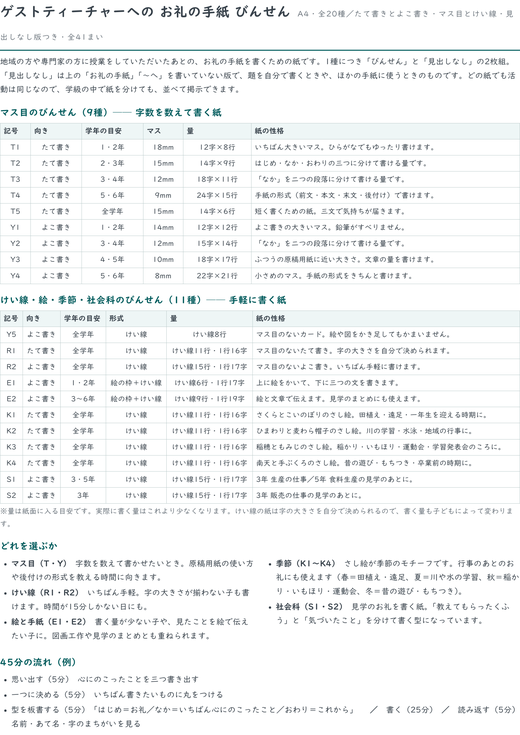
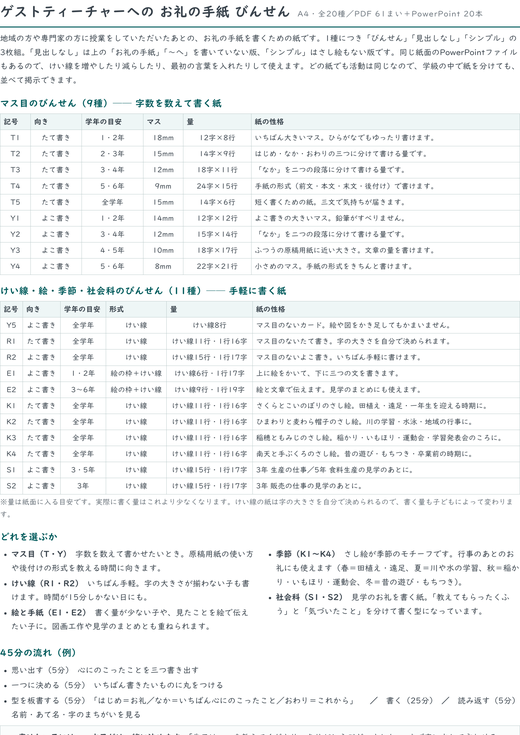
お礼の手紙びんせん：シンプル版とPowerPoint版を追加
- シンプル（見出しもさし絵もない版）を20種すべてに追加。PDFは全61まい
- 先生が編集できるPowerPoint版（A4たて・1種1本・けい線とマスは行ごとにグループ、見出しはテキストボックス）を20本
- 棚ページ：カードに「シンプル」「PowerPoint」ボタン、上部にPowerPoint一括ZIP
- 東京書籍の国語の単元（3年「案内の手紙を書こう」4年「お願いやお礼の手紙を書こう」）への対応を棚と使い方に追記

diff --git a/gakkyu/tegami/index.html b/gakkyu/tegami/index.html
@@ -9,7 +9,7 @@
 <meta property="og:image" content="https://a-tozak.github.io/School_Stock/gakkyu/tegami/card.png">
 <meta name="twitter:card" content="summary_large_image">
 <meta name="twitter:image" content="https://a-tozak.github.io/School_Stock/gakkyu/tegami/card.png">
-<meta name="description" content="ゲストティーチャーへのお礼の手紙を書くためのA4びんせん20種。マス目18mm〜8mm・けい線・絵入り・季節・社会科の見学用。見出しなし版と先生向けの使い方つき。全41まい無料。">
+<meta name="description" content="ゲストティーチャーへのお礼の手紙を書くためのA4びんせん20種。マス目18mm〜8mm・けい線・絵入り・季節・社会科の見学用。見出しなし・シンプル版と、編集できるPowerPointつき。全61まい無料。">
 <link rel="manifest" href="/School_Stock/manifest.webmanifest">
 <meta name="theme-color" content="#0e0f11">
 <link rel="apple-touch-icon" href="/School_Stock/assets/favicon-180.png">
@@ -132,11 +132,11 @@ a { color:var(--accent); text-decoration:none; }
   <div class="head">
     <span class="kicker">CLASSROOM｜学級経営</span>
     <h1>お礼の手紙 びんせん20種</h1>
-    <p class="lead">地域の方や専門家の方に授業をしていただいたあと、お礼の手紙を書く時間のための紙です。マス目の紙10種と、けい線・絵入り・季節・社会科の見学用が10種。たて書きとよこ書き、マス目は18mmから8mmまであるので、同じ活動を、それぞれの子が自分に合った大きさの字で書けます。1種につき、見出しつきの「びんせん」と、題を自分で書く「見出しなし」の2まい組です。</p>
-    <p class="meta">A4・全20種　／　<b>びんせん20まい＋見出しなし20まい＋先生向けの使い方1まい</b>　／　書体はUDデジタル教科書体　／　さし絵は水彩の描きおろし20枚</p>
-    <div class="note-use">マスが大きいほど書ける量は少なくなります。<b>書く力ではなく、鉛筆の運びに合わせて</b>選んでください。けい線の紙は字の大きさを自分で決められるので、いちばん手軽です。同じ学級で紙を分けても活動は同じなので、並べて掲示できます。<br>「<b>見出しなし</b>」は、上の「お礼の手紙」「〜へ」を書いていない版です。題を自分で書くときや、ほかの手紙に使うときに。</div>
-    <a class="dlall" href="/School_Stock_files/gakkyu/tegami/pdf/tegami_binsen_all.zip" download><svg viewBox="0 0 24 24" fill="none" stroke="currentColor" stroke-width="2.2"><path d="M12 3v12M7 11l5 5 5-5M4 20h16"/></svg>まとめてダウンロード<small>ZIP・41まい</small></a>
-    <p class="meta" style="margin-top:12px"><a href="/School_Stock_files/gakkyu/tegami/pdf/00_tsukaikata.pdf" download>先生向けの使い方（A4・2まい）</a>　／　20種の一覧・45分の流れ・国語と社会の学習指導要領との対応が入っています。</p>
+    <p class="lead">地域の方や専門家の方に授業をしていただいたあと、お礼の手紙を書く時間のための紙です。マス目の紙10種と、けい線・絵入り・季節・社会科の見学用が10種。たて書きとよこ書き、マス目は18mmから8mmまであるので、同じ活動を、それぞれの子が自分に合った大きさの字で書けます。1種につき、見出しつきの「びんせん」、題を自分で書く「見出しなし」、見出しもさし絵もない「シンプル」の3まい組です。PowerPointの元ファイルもあるので、線の数を増やしたり、最初の言葉を入れたりして使えます。</p>
+    <p class="meta">A4・全20種　／　<b>びんせん20まい＋見出しなし20まい＋シンプル20まい＋先生向けの使い方1まい</b>　／　PowerPoint 20本　／　書体はUDデジタル教科書体　／　さし絵は水彩の描きおろし20枚</p>
+    <div class="note-use">マスが大きいほど書ける量は少なくなります。<b>書く力ではなく、鉛筆の運びに合わせて</b>選んでください。けい線の紙は字の大きさを自分で決められるので、いちばん手軽です。同じ学級で紙を分けても活動は同じなので、並べて掲示できます。<br>「<b>見出しなし</b>」は上の「お礼の手紙」「〜へ」を書いていない版、「<b>シンプル</b>」はさし絵もない版です。<b>PowerPoint</b>は同じ紙面を編集できる元ファイルで、けい線は1本ずつ消したり増やしたりできます。</div>
+    <a class="dlall" href="/School_Stock_files/gakkyu/tegami/pdf/tegami_binsen_all.zip" download><svg viewBox="0 0 24 24" fill="none" stroke="currentColor" stroke-width="2.2"><path d="M12 3v12M7 11l5 5 5-5M4 20h16"/></svg>まとめてダウンロード<small>ZIP・PDF 61まい</small></a>
+    <p class="meta" style="margin-top:12px"><a href="/School_Stock_files/gakkyu/tegami/pptx/tegami_binsen_pptx_all.zip" download>PowerPoint 20本まとめて（ZIP）</a>　／　<a href="/School_Stock_files/gakkyu/tegami/pdf/00_tsukaikata.pdf" download>先生向けの使い方（A4・2まい）</a>　／　20種の一覧・45分の流れ・国語と社会の学習指導要領との対応が入っています。</p>
   </div>
 
   <div class="pick" id="pick">
@@ -158,6 +158,8 @@ a { color:var(--accent); text-decoration:none; }
           <div style="display:flex;flex-wrap:wrap;gap:6px">
           <a class="dl" href="/School_Stock_files/gakkyu/tegami/pdf/T1_binsen.pdf" download><svg viewBox="0 0 24 24" fill="none" stroke="currentColor" stroke-width="2.2"><path d="M12 3v12M7 11l5 5 5-5M4 20h16"/></svg>びんせん</a>
           <a class="dl" href="/School_Stock_files/gakkyu/tegami/pdf/T1_mudai.pdf" download title="「ありがとうの てがみ」の見出しを書いていない版"><svg viewBox="0 0 24 24" fill="none" stroke="currentColor" stroke-width="2.2"><path d="M12 3v12M7 11l5 5 5-5M4 20h16"/></svg>見出しなし</a>
+          <a class="dl" href="/School_Stock_files/gakkyu/tegami/pdf/T1_simple.pdf" download title="見出しもさし絵もない版"><svg viewBox="0 0 24 24" fill="none" stroke="currentColor" stroke-width="2.2"><path d="M12 3v12M7 11l5 5 5-5M4 20h16"/></svg>シンプル</a>
+          <a class="dl" href="/School_Stock_files/gakkyu/tegami/pptx/T1.pptx" download title="PowerPointで線の数や最初の言葉を変えられます"><svg viewBox="0 0 24 24" fill="none" stroke="currentColor" stroke-width="2.2"><path d="M12 3v12M7 11l5 5 5-5M4 20h16"/></svg>PowerPoint</a>
           </div>
         </div>
       </article>
@@ -172,6 +174,8 @@ a { color:var(--accent); text-decoration:none; }
           <div style="display:flex;flex-wrap:wrap;gap:6px">
           <a class="dl" href="/School_Stock_files/gakkyu/tegami/pdf/T2_binsen.pdf" download><svg viewBox="0 0 24 24" fill="none" stroke="currentColor" stroke-width="2.2"><path d="M12 3v12M7 11l5 5 5-5M4 20h16"/></svg>びんせん</a>
           <a class="dl" href="/School_Stock_files/gakkyu/tegami/pdf/T2_mudai.pdf" download title="「ありがとうの 手紙」の見出しを書いていない版"><svg viewBox="0 0 24 24" fill="none" stroke="currentColor" stroke-width="2.2"><path d="M12 3v12M7 11l5 5 5-5M4 20h16"/></svg>見出しなし</a>
+          <a class="dl" href="/School_Stock_files/gakkyu/tegami/pdf/T2_simple.pdf" download title="見出しもさし絵もない版"><svg viewBox="0 0 24 24" fill="none" stroke="currentColor" stroke-width="2.2"><path d="M12 3v12M7 11l5 5 5-5M4 20h16"/></svg>シンプル</a>
+          <a class="dl" href="/School_Stock_files/gakkyu/tegami/pptx/T2.pptx" download title="PowerPointで線の数や最初の言葉を変えられます"><svg viewBox="0 0 24 24" fill="none" stroke="currentColor" stroke-width="2.2"><path d="M12 3v12M7 11l5 5 5-5M4 20h16"/></svg>PowerPoint</a>
           </div>
         </div>
       </article>
@@ -186,6 +190,8 @@ a { color:var(--accent); text-decoration:none; }
           <div style="display:flex;flex-wrap:wrap;gap:6px">
           <a class="dl" href="/School_Stock_files/gakkyu/tegami/pdf/T3_binsen.pdf" download><svg viewBox="0 0 24 24" fill="none" stroke="currentColor" stroke-width="2.2"><path d="M12 3v12M7 11l5 5 5-5M4 20h16"/></svg>びんせん</a>
           <a class="dl" href="/School_Stock_files/gakkyu/tegami/pdf/T3_mudai.pdf" download title="「お礼の手紙」の見出しを書いていない版"><svg viewBox="0 0 24 24" fill="none" stroke="currentColor" stroke-width="2.2"><path d="M12 3v12M7 11l5 5 5-5M4 20h16"/></svg>見出しなし</a>
+          <a class="dl" href="/School_Stock_files/gakkyu/tegami/pdf/T3_simple.pdf" download title="見出しもさし絵もない版"><svg viewBox="0 0 24 24" fill="none" stroke="currentColor" stroke-width="2.2"><path d="M12 3v12M7 11l5 5 5-5M4 20h16"/></svg>シンプル</a>
+          <a class="dl" href="/School_Stock_files/gakkyu/tegami/pptx/T3.pptx" download title="PowerPointで線の数や最初の言葉を変えられます"><svg viewBox="0 0 24 24" fill="none" stroke="currentColor" stroke-width="2.2"><path d="M12 3v12M7 11l5 5 5-5M4 20h16"/></svg>PowerPoint</a>
           </div>
         </div>
       </article>
@@ -200,6 +206,8 @@ a { color:var(--accent); text-decoration:none; }
           <div style="display:flex;flex-wrap:wrap;gap:6px">
           <a class="dl" href="/School_Stock_files/gakkyu/tegami/pdf/T4_binsen.pdf" download><svg viewBox="0 0 24 24" fill="none" stroke="currentColor" stroke-width="2.2"><path d="M12 3v12M7 11l5 5 5-5M4 20h16"/></svg>びんせん</a>
           <a class="dl" href="/School_Stock_files/gakkyu/tegami/pdf/T4_mudai.pdf" download title="「お礼の手紙」の見出しを書いていない版"><svg viewBox="0 0 24 24" fill="none" stroke="currentColor" stroke-width="2.2"><path d="M12 3v12M7 11l5 5 5-5M4 20h16"/></svg>見出しなし</a>
+          <a class="dl" href="/School_Stock_files/gakkyu/tegami/pdf/T4_simple.pdf" download title="見出しもさし絵もない版"><svg viewBox="0 0 24 24" fill="none" stroke="currentColor" stroke-width="2.2"><path d="M12 3v12M7 11l5 5 5-5M4 20h16"/></svg>シンプル</a>
+          <a class="dl" href="/School_Stock_files/gakkyu/tegami/pptx/T4.pptx" download title="PowerPointで線の数や最初の言葉を変えられます"><svg viewBox="0 0 24 24" fill="none" stroke="currentColor" stroke-width="2.2"><path d="M12 3v12M7 11l5 5 5-5M4 20h16"/></svg>PowerPoint</a>
           </div>
         </div>
       </article>
@@ -214,6 +222,8 @@ a { color:var(--accent); text-decoration:none; }
           <div style="display:flex;flex-wrap:wrap;gap:6px">
           <a class="dl" href="/School_Stock_files/gakkyu/tegami/pdf/T5_binsen.pdf" download><svg viewBox="0 0 24 24" fill="none" stroke="currentColor" stroke-width="2.2"><path d="M12 3v12M7 11l5 5 5-5M4 20h16"/></svg>びんせん</a>
           <a class="dl" href="/School_Stock_files/gakkyu/tegami/pdf/T5_mudai.pdf" download title="「ひとことの お礼」の見出しを書いていない版"><svg viewBox="0 0 24 24" fill="none" stroke="currentColor" stroke-width="2.2"><path d="M12 3v12M7 11l5 5 5-5M4 20h16"/></svg>見出しなし</a>
+          <a class="dl" href="/School_Stock_files/gakkyu/tegami/pdf/T5_simple.pdf" download title="見出しもさし絵もない版"><svg viewBox="0 0 24 24" fill="none" stroke="currentColor" stroke-width="2.2"><path d="M12 3v12M7 11l5 5 5-5M4 20h16"/></svg>シンプル</a>
+          <a class="dl" href="/School_Stock_files/gakkyu/tegami/pptx/T5.pptx" download title="PowerPointで線の数や最初の言葉を変えられます"><svg viewBox="0 0 24 24" fill="none" stroke="currentColor" stroke-width="2.2"><path d="M12 3v12M7 11l5 5 5-5M4 20h16"/></svg>PowerPoint</a>
           </div>
         </div>
       </article>
@@ -228,6 +238,8 @@ a { color:var(--accent); text-decoration:none; }
           <div style="display:flex;flex-wrap:wrap;gap:6px">
           <a class="dl" href="/School_Stock_files/gakkyu/tegami/pdf/Y1_binsen.pdf" download><svg viewBox="0 0 24 24" fill="none" stroke="currentColor" stroke-width="2.2"><path d="M12 3v12M7 11l5 5 5-5M4 20h16"/></svg>びんせん</a>
           <a class="dl" href="/School_Stock_files/gakkyu/tegami/pdf/Y1_mudai.pdf" download title="「ありがとうの てがみ」の見出しを書いていない版"><svg viewBox="0 0 24 24" fill="none" stroke="currentColor" stroke-width="2.2"><path d="M12 3v12M7 11l5 5 5-5M4 20h16"/></svg>見出しなし</a>
+          <a class="dl" href="/School_Stock_files/gakkyu/tegami/pdf/Y1_simple.pdf" download title="見出しもさし絵もない版"><svg viewBox="0 0 24 24" fill="none" stroke="currentColor" stroke-width="2.2"><path d="M12 3v12M7 11l5 5 5-5M4 20h16"/></svg>シンプル</a>
+          <a class="dl" href="/School_Stock_files/gakkyu/tegami/pptx/Y1.pptx" download title="PowerPointで線の数や最初の言葉を変えられます"><svg viewBox="0 0 24 24" fill="none" stroke="currentColor" stroke-width="2.2"><path d="M12 3v12M7 11l5 5 5-5M4 20h16"/></svg>PowerPoint</a>
           </div>
         </div>
       </article>
@@ -242,6 +254,8 @@ a { color:var(--accent); text-decoration:none; }
           <div style="display:flex;flex-wrap:wrap;gap:6px">
           <a class="dl" href="/School_Stock_files/gakkyu/tegami/pdf/Y2_binsen.pdf" download><svg viewBox="0 0 24 24" fill="none" stroke="currentColor" stroke-width="2.2"><path d="M12 3v12M7 11l5 5 5-5M4 20h16"/></svg>びんせん</a>
           <a class="dl" href="/School_Stock_files/gakkyu/tegami/pdf/Y2_mudai.pdf" download title="「お礼の手紙」の見出しを書いていない版"><svg viewBox="0 0 24 24" fill="none" stroke="currentColor" stroke-width="2.2"><path d="M12 3v12M7 11l5 5 5-5M4 20h16"/></svg>見出しなし</a>
+          <a class="dl" href="/School_Stock_files/gakkyu/tegami/pdf/Y2_simple.pdf" download title="見出しもさし絵もない版"><svg viewBox="0 0 24 24" fill="none" stroke="currentColor" stroke-width="2.2"><path d="M12 3v12M7 11l5 5 5-5M4 20h16"/></svg>シンプル</a>
+          <a class="dl" href="/School_Stock_files/gakkyu/tegami/pptx/Y2.pptx" download title="PowerPointで線の数や最初の言葉を変えられます"><svg viewBox="0 0 24 24" fill="none" stroke="currentColor" stroke-width="2.2"><path d="M12 3v12M7 11l5 5 5-5M4 20h16"/></svg>PowerPoint</a>
           </div>
         </div>
       </article>
@@ -256,6 +270,8 @@ a { color:var(--accent); text-decoration:none; }
           <div style="display:flex;flex-wrap:wrap;gap:6px">
           <a class="dl" href="/School_Stock_files/gakkyu/tegami/pdf/Y3_binsen.pdf" download><svg viewBox="0 0 24 24" fill="none" stroke="currentColor" stroke-width="2.2"><path d="M12 3v12M7 11l5 5 5-5M4 20h16"/></svg>びんせん</a>
           <a class="dl" href="/School_Stock_files/gakkyu/tegami/pdf/Y3_mudai.pdf" download title="「お礼の手紙」の見出しを書いていない版"><svg viewBox="0 0 24 24" fill="none" stroke="currentColor" stroke-width="2.2"><path d="M12 3v12M7 11l5 5 5-5M4 20h16"/></svg>見出しなし</a>
+          <a class="dl" href="/School_Stock_files/gakkyu/tegami/pdf/Y3_simple.pdf" download title="見出しもさし絵もない版"><svg viewBox="0 0 24 24" fill="none" stroke="currentColor" stroke-width="2.2"><path d="M12 3v12M7 11l5 5 5-5M4 20h16"/></svg>シンプル</a>
+          <a class="dl" href="/School_Stock_files/gakkyu/tegami/pptx/Y3.pptx" download title="PowerPointで線の数や最初の言葉を変えられます"><svg viewBox="0 0 24 24" fill="none" stroke="currentColor" stroke-width="2.2"><path d="M12 3v12M7 11l5 5 5-5M4 20h16"/></svg>PowerPoint</a>
           </div>
         </div>
       </article>
@@ -270,6 +286,8 @@ a { color:var(--accent); text-decoration:none; }
           <div style="display:flex;flex-wrap:wrap;gap:6px">
           <a class="dl" href="/School_Stock_files/gakkyu/tegami/pdf/Y4_binsen.pdf" download><svg viewBox="0 0 24 24" fill="none" stroke="currentColor" stroke-width="2.2"><path d="M12 3v12M7 11l5 5 5-5M4 20h16"/></svg>びんせん</a>
           <a class="dl" href="/School_Stock_files/gakkyu/tegami/pdf/Y4_mudai.pdf" download title="「お礼の手紙」の見出しを書いていない版"><svg viewBox="0 0 24 24" fill="none" stroke="currentColor" stroke-width="2.2"><path d="M12 3v12M7 11l5 5 5-5M4 20h16"/></svg>見出しなし</a>
+          <a class="dl" href="/School_Stock_files/gakkyu/tegami/pdf/Y4_simple.pdf" download title="見出しもさし絵もない版"><svg viewBox="0 0 24 24" fill="none" stroke="currentColor" stroke-width="2.2"><path d="M12 3v12M7 11l5 5 5-5M4 20h16"/></svg>シンプル</a>
+          <a class="dl" href="/School_Stock_files/gakkyu/tegami/pptx/Y4.pptx" download title="PowerPointで線の数や最初の言葉を変えられます"><svg viewBox="0 0 24 24" fill="none" stroke="currentColor" stroke-width="2.2"><path d="M12 3v12M7 11l5 5 5-5M4 20h16"/></svg>PowerPoint</a>
           </div>
         </div>
       </article>
@@ -288,6 +306,8 @@ a { color:var(--accent); text-decoration:none; }
           <div style="display:flex;flex-wrap:wrap;gap:6px">
           <a class="dl" href="/School_Stock_files/gakkyu/tegami/pdf/R1_binsen.pdf" download><svg viewBox="0 0 24 24" fill="none" stroke="currentColor" stroke-width="2.2"><path d="M12 3v12M7 11l5 5 5-5M4 20h16"/></svg>びんせん</a>
           <a class="dl" href="/School_Stock_files/gakkyu/tegami/pdf/R1_mudai.pdf" download title="「お礼の手紙」の見出しを書いていない版"><svg viewBox="0 0 24 24" fill="none" stroke="currentColor" stroke-width="2.2"><path d="M12 3v12M7 11l5 5 5-5M4 20h16"/></svg>見出しなし</a>
+          <a class="dl" href="/School_Stock_files/gakkyu/tegami/pdf/R1_simple.pdf" download title="見出しもさし絵もない版"><svg viewBox="0 0 24 24" fill="none" stroke="currentColor" stroke-width="2.2"><path d="M12 3v12M7 11l5 5 5-5M4 20h16"/></svg>シンプル</a>
+          <a class="dl" href="/School_Stock_files/gakkyu/tegami/pptx/R1.pptx" download title="PowerPointで線の数や最初の言葉を変えられます"><svg viewBox="0 0 24 24" fill="none" stroke="currentColor" stroke-width="2.2"><path d="M12 3v12M7 11l5 5 5-5M4 20h16"/></svg>PowerPoint</a>
           </div>
         </div>
       </article>
@@ -302,6 +322,8 @@ a { color:var(--accent); text-decoration:none; }
           <div style="display:flex;flex-wrap:wrap;gap:6px">
           <a class="dl" href="/School_Stock_files/gakkyu/tegami/pdf/R2_binsen.pdf" download><svg viewBox="0 0 24 24" fill="none" stroke="currentColor" stroke-width="2.2"><path d="M12 3v12M7 11l5 5 5-5M4 20h16"/></svg>びんせん</a>
           <a class="dl" href="/School_Stock_files/gakkyu/tegami/pdf/R2_mudai.pdf" download title="「お礼の手紙」の見出しを書いていない版"><svg viewBox="0 0 24 24" fill="none" stroke="currentColor" stroke-width="2.2"><path d="M12 3v12M7 11l5 5 5-5M4 20h16"/></svg>見出しなし</a>
+          <a class="dl" href="/School_Stock_files/gakkyu/tegami/pdf/R2_simple.pdf" download title="見出しもさし絵もない版"><svg viewBox="0 0 24 24" fill="none" stroke="currentColor" stroke-width="2.2"><path d="M12 3v12M7 11l5 5 5-5M4 20h16"/></svg>シンプル</a>
+          <a class="dl" href="/School_Stock_files/gakkyu/tegami/pptx/R2.pptx" download title="PowerPointで線の数や最初の言葉を変えられます"><svg viewBox="0 0 24 24" fill="none" stroke="currentColor" stroke-width="2.2"><path d="M12 3v12M7 11l5 5 5-5M4 20h16"/></svg>PowerPoint</a>
           </div>
         </div>
       </article>
@@ -320,6 +342,8 @@ a { color:var(--accent); text-decoration:none; }
           <div style="display:flex;flex-wrap:wrap;gap:6px">
           <a class="dl" href="/School_Stock_files/gakkyu/tegami/pdf/Y5_binsen.pdf" download><svg viewBox="0 0 24 24" fill="none" stroke="currentColor" stroke-width="2.2"><path d="M12 3v12M7 11l5 5 5-5M4 20h16"/></svg>びんせん</a>
           <a class="dl" href="/School_Stock_files/gakkyu/tegami/pdf/Y5_mudai.pdf" download title="「ありがとうカード」の見出しを書いていない版"><svg viewBox="0 0 24 24" fill="none" stroke="currentColor" stroke-width="2.2"><path d="M12 3v12M7 11l5 5 5-5M4 20h16"/></svg>見出しなし</a>
+          <a class="dl" href="/School_Stock_files/gakkyu/tegami/pdf/Y5_simple.pdf" download title="見出しもさし絵もない版"><svg viewBox="0 0 24 24" fill="none" stroke="currentColor" stroke-width="2.2"><path d="M12 3v12M7 11l5 5 5-5M4 20h16"/></svg>シンプル</a>
+          <a class="dl" href="/School_Stock_files/gakkyu/tegami/pptx/Y5.pptx" download title="PowerPointで線の数や最初の言葉を変えられます"><svg viewBox="0 0 24 24" fill="none" stroke="currentColor" stroke-width="2.2"><path d="M12 3v12M7 11l5 5 5-5M4 20h16"/></svg>PowerPoint</a>
           </div>
         </div>
       </article>
@@ -334,6 +358,8 @@ a { color:var(--accent); text-decoration:none; }
           <div style="display:flex;flex-wrap:wrap;gap:6px">
           <a class="dl" href="/School_Stock_files/gakkyu/tegami/pdf/E1_binsen.pdf" download><svg viewBox="0 0 24 24" fill="none" stroke="currentColor" stroke-width="2.2"><path d="M12 3v12M7 11l5 5 5-5M4 20h16"/></svg>びんせん</a>
           <a class="dl" href="/School_Stock_files/gakkyu/tegami/pdf/E1_mudai.pdf" download title="「えと てがみ」の見出しを書いていない版"><svg viewBox="0 0 24 24" fill="none" stroke="currentColor" stroke-width="2.2"><path d="M12 3v12M7 11l5 5 5-5M4 20h16"/></svg>見出しなし</a>
+          <a class="dl" href="/School_Stock_files/gakkyu/tegami/pdf/E1_simple.pdf" download title="見出しもさし絵もない版"><svg viewBox="0 0 24 24" fill="none" stroke="currentColor" stroke-width="2.2"><path d="M12 3v12M7 11l5 5 5-5M4 20h16"/></svg>シンプル</a>
+          <a class="dl" href="/School_Stock_files/gakkyu/tegami/pptx/E1.pptx" download title="PowerPointで線の数や最初の言葉を変えられます"><svg viewBox="0 0 24 24" fill="none" stroke="currentColor" stroke-width="2.2"><path d="M12 3v12M7 11l5 5 5-5M4 20h16"/></svg>PowerPoint</a>
           </div>
         </div>
       </article>
@@ -348,6 +374,8 @@ a { color:var(--accent); text-decoration:none; }
           <div style="display:flex;flex-wrap:wrap;gap:6px">
           <a class="dl" href="/School_Stock_files/gakkyu/tegami/pdf/E2_binsen.pdf" download><svg viewBox="0 0 24 24" fill="none" stroke="currentColor" stroke-width="2.2"><path d="M12 3v12M7 11l5 5 5-5M4 20h16"/></svg>びんせん</a>
           <a class="dl" href="/School_Stock_files/gakkyu/tegami/pdf/E2_mudai.pdf" download title="「絵と手紙」の見出しを書いていない版"><svg viewBox="0 0 24 24" fill="none" stroke="currentColor" stroke-width="2.2"><path d="M12 3v12M7 11l5 5 5-5M4 20h16"/></svg>見出しなし</a>
+          <a class="dl" href="/School_Stock_files/gakkyu/tegami/pdf/E2_simple.pdf" download title="見出しもさし絵もない版"><svg viewBox="0 0 24 24" fill="none" stroke="currentColor" stroke-width="2.2"><path d="M12 3v12M7 11l5 5 5-5M4 20h16"/></svg>シンプル</a>
+          <a class="dl" href="/School_Stock_files/gakkyu/tegami/pptx/E2.pptx" download title="PowerPointで線の数や最初の言葉を変えられます"><svg viewBox="0 0 24 24" fill="none" stroke="currentColor" stroke-width="2.2"><path d="M12 3v12M7 11l5 5 5-5M4 20h16"/></svg>PowerPoint</a>
           </div>
         </div>
       </article>
@@ -366,6 +394,8 @@ a { color:var(--accent); text-decoration:none; }
           <div style="display:flex;flex-wrap:wrap;gap:6px">
           <a class="dl" href="/School_Stock_files/gakkyu/tegami/pdf/K1_binsen.pdf" download><svg viewBox="0 0 24 24" fill="none" stroke="currentColor" stroke-width="2.2"><path d="M12 3v12M7 11l5 5 5-5M4 20h16"/></svg>びんせん</a>
           <a class="dl" href="/School_Stock_files/gakkyu/tegami/pdf/K1_mudai.pdf" download title="「春の お礼の手紙」の見出しを書いていない版"><svg viewBox="0 0 24 24" fill="none" stroke="currentColor" stroke-width="2.2"><path d="M12 3v12M7 11l5 5 5-5M4 20h16"/></svg>見出しなし</a>
+          <a class="dl" href="/School_Stock_files/gakkyu/tegami/pdf/K1_simple.pdf" download title="見出しもさし絵もない版"><svg viewBox="0 0 24 24" fill="none" stroke="currentColor" stroke-width="2.2"><path d="M12 3v12M7 11l5 5 5-5M4 20h16"/></svg>シンプル</a>
+          <a class="dl" href="/School_Stock_files/gakkyu/tegami/pptx/K1.pptx" download title="PowerPointで線の数や最初の言葉を変えられます"><svg viewBox="0 0 24 24" fill="none" stroke="currentColor" stroke-width="2.2"><path d="M12 3v12M7 11l5 5 5-5M4 20h16"/></svg>PowerPoint</a>
           </div>
         </div>
       </article>
@@ -380,6 +410,8 @@ a { color:var(--accent); text-decoration:none; }
           <div style="display:flex;flex-wrap:wrap;gap:6px">
           <a class="dl" href="/School_Stock_files/gakkyu/tegami/pdf/K2_binsen.pdf" download><svg viewBox="0 0 24 24" fill="none" stroke="currentColor" stroke-width="2.2"><path d="M12 3v12M7 11l5 5 5-5M4 20h16"/></svg>びんせん</a>
           <a class="dl" href="/School_Stock_files/gakkyu/tegami/pdf/K2_mudai.pdf" download title="「夏の お礼の手紙」の見出しを書いていない版"><svg viewBox="0 0 24 24" fill="none" stroke="currentColor" stroke-width="2.2"><path d="M12 3v12M7 11l5 5 5-5M4 20h16"/></svg>見出しなし</a>
+          <a class="dl" href="/School_Stock_files/gakkyu/tegami/pdf/K2_simple.pdf" download title="見出しもさし絵もない版"><svg viewBox="0 0 24 24" fill="none" stroke="currentColor" stroke-width="2.2"><path d="M12 3v12M7 11l5 5 5-5M4 20h16"/></svg>シンプル</a>
+          <a class="dl" href="/School_Stock_files/gakkyu/tegami/pptx/K2.pptx" download title="PowerPointで線の数や最初の言葉を変えられます"><svg viewBox="0 0 24 24" fill="none" stroke="currentColor" stroke-width="2.2"><path d="M12 3v12M7 11l5 5 5-5M4 20h16"/></svg>PowerPoint</a>
           </div>
         </div>
       </article>
@@ -394,6 +426,8 @@ a { color:var(--accent); text-decoration:none; }
           <div style="display:flex;flex-wrap:wrap;gap:6px">
           <a class="dl" href="/School_Stock_files/gakkyu/tegami/pdf/K3_binsen.pdf" download><svg viewBox="0 0 24 24" fill="none" stroke="currentColor" stroke-width="2.2"><path d="M12 3v12M7 11l5 5 5-5M4 20h16"/></svg>びんせん</a>
           <a class="dl" href="/School_Stock_files/gakkyu/tegami/pdf/K3_mudai.pdf" download title="「秋の お礼の手紙」の見出しを書いていない版"><svg viewBox="0 0 24 24" fill="none" stroke="currentColor" stroke-width="2.2"><path d="M12 3v12M7 11l5 5 5-5M4 20h16"/></svg>見出しなし</a>
+          <a class="dl" href="/School_Stock_files/gakkyu/tegami/pdf/K3_simple.pdf" download title="見出しもさし絵もない版"><svg viewBox="0 0 24 24" fill="none" stroke="currentColor" stroke-width="2.2"><path d="M12 3v12M7 11l5 5 5-5M4 20h16"/></svg>シンプル</a>
+          <a class="dl" href="/School_Stock_files/gakkyu/tegami/pptx/K3.pptx" download title="PowerPointで線の数や最初の言葉を変えられます"><svg viewBox="0 0 24 24" fill="none" stroke="currentColor" stroke-width="2.2"><path d="M12 3v12M7 11l5 5 5-5M4 20h16"/></svg>PowerPoint</a>
           </div>
         </div>
       </article>
@@ -408,6 +442,8 @@ a { color:var(--accent); text-decoration:none; }
           <div style="display:flex;flex-wrap:wrap;gap:6px">
           <a class="dl" href="/School_Stock_files/gakkyu/tegami/pdf/K4_binsen.pdf" download><svg viewBox="0 0 24 24" fill="none" stroke="currentColor" stroke-width="2.2"><path d="M12 3v12M7 11l5 5 5-5M4 20h16"/></svg>びんせん</a>
           <a class="dl" href="/School_Stock_files/gakkyu/tegami/pdf/K4_mudai.pdf" download title="「冬の お礼の手紙」の見出しを書いていない版"><svg viewBox="0 0 24 24" fill="none" stroke="currentColor" stroke-width="2.2"><path d="M12 3v12M7 11l5 5 5-5M4 20h16"/></svg>見出しなし</a>
+          <a class="dl" href="/School_Stock_files/gakkyu/tegami/pdf/K4_simple.pdf" download title="見出しもさし絵もない版"><svg viewBox="0 0 24 24" fill="none" stroke="currentColor" stroke-width="2.2"><path d="M12 3v12M7 11l5 5 5-5M4 20h16"/></svg>シンプル</a>
+          <a class="dl" href="/School_Stock_files/gakkyu/tegami/pptx/K4.pptx" download title="PowerPointで線の数や最初の言葉を変えられます"><svg viewBox="0 0 24 24" fill="none" stroke="currentColor" stroke-width="2.2"><path d="M12 3v12M7 11l5 5 5-5M4 20h16"/></svg>PowerPoint</a>
           </div>
         </div>
       </article>
@@ -426,6 +462,8 @@ a { color:var(--accent); text-decoration:none; }
           <div style="display:flex;flex-wrap:wrap;gap:6px">
           <a class="dl" href="/School_Stock_files/gakkyu/tegami/pdf/S1_binsen.pdf" download><svg viewBox="0 0 24 24" fill="none" stroke="currentColor" stroke-width="2.2"><path d="M12 3v12M7 11l5 5 5-5M4 20h16"/></svg>びんせん</a>
           <a class="dl" href="/School_Stock_files/gakkyu/tegami/pdf/S1_mudai.pdf" download title="「畑ではたらく人へ」の見出しを書いていない版"><svg viewBox="0 0 24 24" fill="none" stroke="currentColor" stroke-width="2.2"><path d="M12 3v12M7 11l5 5 5-5M4 20h16"/></svg>見出しなし</a>
+          <a class="dl" href="/School_Stock_files/gakkyu/tegami/pdf/S1_simple.pdf" download title="見出しもさし絵もない版"><svg viewBox="0 0 24 24" fill="none" stroke="currentColor" stroke-width="2.2"><path d="M12 3v12M7 11l5 5 5-5M4 20h16"/></svg>シンプル</a>
+          <a class="dl" href="/School_Stock_files/gakkyu/tegami/pptx/S1.pptx" download title="PowerPointで線の数や最初の言葉を変えられます"><svg viewBox="0 0 24 24" fill="none" stroke="currentColor" stroke-width="2.2"><path d="M12 3v12M7 11l5 5 5-5M4 20h16"/></svg>PowerPoint</a>
           </div>
         </div>
       </article>
@@ -440,6 +478,8 @@ a { color:var(--accent); text-decoration:none; }
           <div style="display:flex;flex-wrap:wrap;gap:6px">
           <a class="dl" href="/School_Stock_files/gakkyu/tegami/pdf/S2_binsen.pdf" download><svg viewBox="0 0 24 24" fill="none" stroke="currentColor" stroke-width="2.2"><path d="M12 3v12M7 11l5 5 5-5M4 20h16"/></svg>びんせん</a>
           <a class="dl" href="/School_Stock_files/gakkyu/tegami/pdf/S2_mudai.pdf" download title="「お店ではたらく人へ」の見出しを書いていない版"><svg viewBox="0 0 24 24" fill="none" stroke="currentColor" stroke-width="2.2"><path d="M12 3v12M7 11l5 5 5-5M4 20h16"/></svg>見出しなし</a>
+          <a class="dl" href="/School_Stock_files/gakkyu/tegami/pdf/S2_simple.pdf" download title="見出しもさし絵もない版"><svg viewBox="0 0 24 24" fill="none" stroke="currentColor" stroke-width="2.2"><path d="M12 3v12M7 11l5 5 5-5M4 20h16"/></svg>シンプル</a>
+          <a class="dl" href="/School_Stock_files/gakkyu/tegami/pptx/S2.pptx" download title="PowerPointで線の数や最初の言葉を変えられます"><svg viewBox="0 0 24 24" fill="none" stroke="currentColor" stroke-width="2.2"><path d="M12 3v12M7 11l5 5 5-5M4 20h16"/></svg>PowerPoint</a>
           </div>
         </div>
       </article>
@@ -460,6 +500,7 @@ a { color:var(--accent); text-decoration:none; }
       <li><b>国語　第1学年及び第2学年</b>　B書くこと(2)イ「日記や手紙を書くなど、思ったことや伝えたいことを書く活動」。構成は(1)イ「事柄の順序に沿って簡単な構成を考えること」。T1・T2・Y1・E1の「はじめ・なか・おわり」がこれです。短い文や伝言で表すことも認められています（T5・Y5）。</li>
       <li><b>国語　第3学年及び第4学年</b>　B書くこと(1)イ「書く内容の中心を明確にし、内容のまとまりで段落をつくったり、段落相互の関係に注意したりして、文章の構成を考えること」。T3・Y2・Y3・E2・S1・S2で「なか」を二つに分けているのは、中心になることと、それを支えることを分けるためです。</li>
       <li><b>国語　第5学年及び第6学年</b>　B書くこと(2)イ「行事の案内やお礼の文章を書くなど、伝えたいことを手紙に書く活動」。解説には、お礼の手紙では後付けにおける署名や宛て名の位置関係といった基本的な形式を押さえることが必要だと書かれています。T4・Y4はその形式で書ける量にしてあります。</li>
+      <li><b>国語の教科書（東京書籍）</b>　3年「案内の手紙を書こう」、4年「お願いやお礼の手紙を書こう」の単元でもそのまま使えます。案内やお願いの手紙には「見出しなし」か「シンプル」を。</li>
       <li><b>社会　第3学年(2)　地域に見られる生産や販売の仕事</b>　解説では、地域の人々の農作物などを生産する仕事と、商品を販売する仕事のどちらも、見学・調査して仕事の様子を捉え、そこに見られる工夫を考えて表現することが示されています。S1（畑ではたらく人へ）とS2（お店ではたらく人へ）は、その「工夫」を書く欄を「なか①」に置いています。</li>
       <li><b>社会　第5学年(2)　我が国の農業や水産業における食料生産</b>　生産に関わる人々の工夫や努力を捉える学習にあたります。S1は5年の農家の見学のあとにも使えます。</li>
     </ol>
